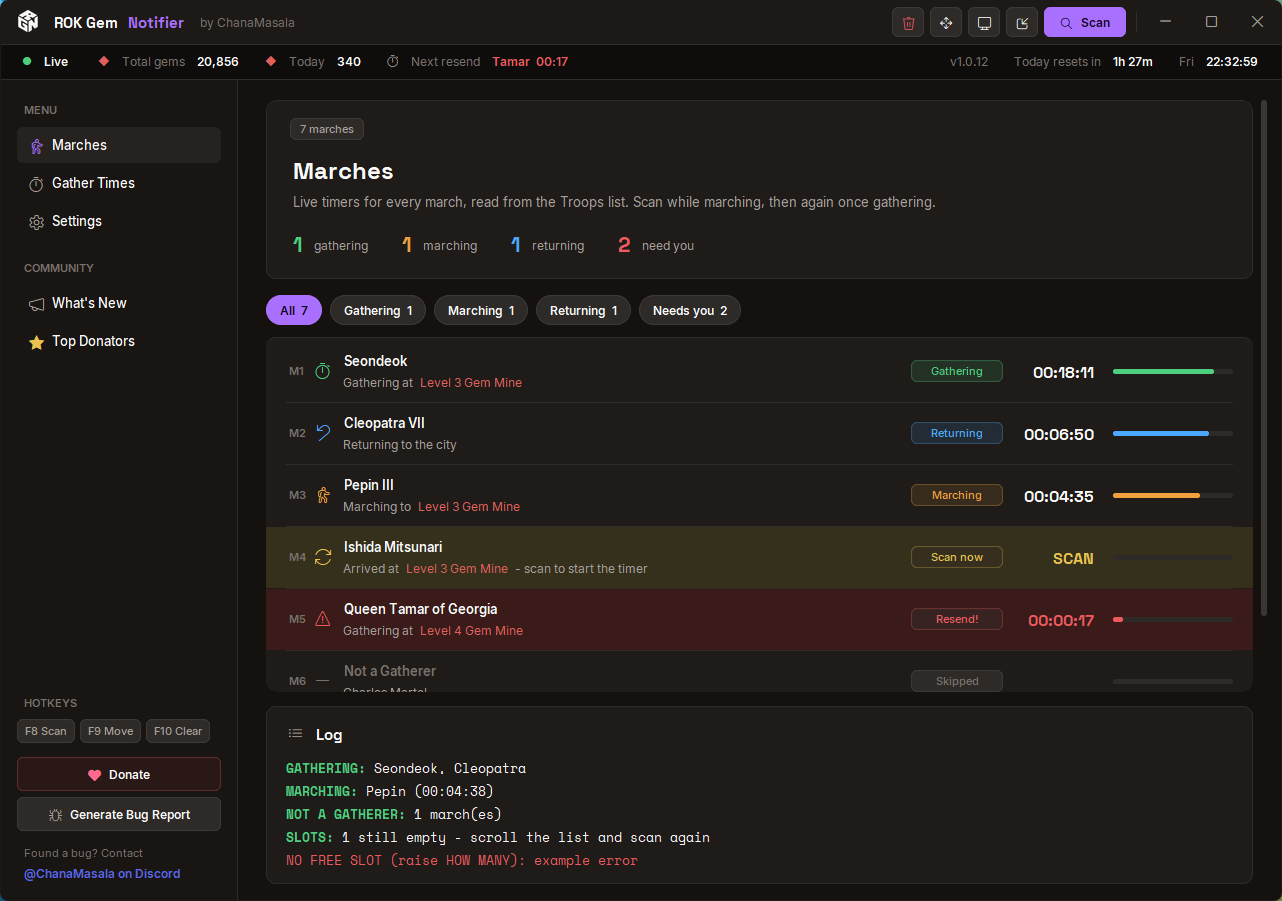
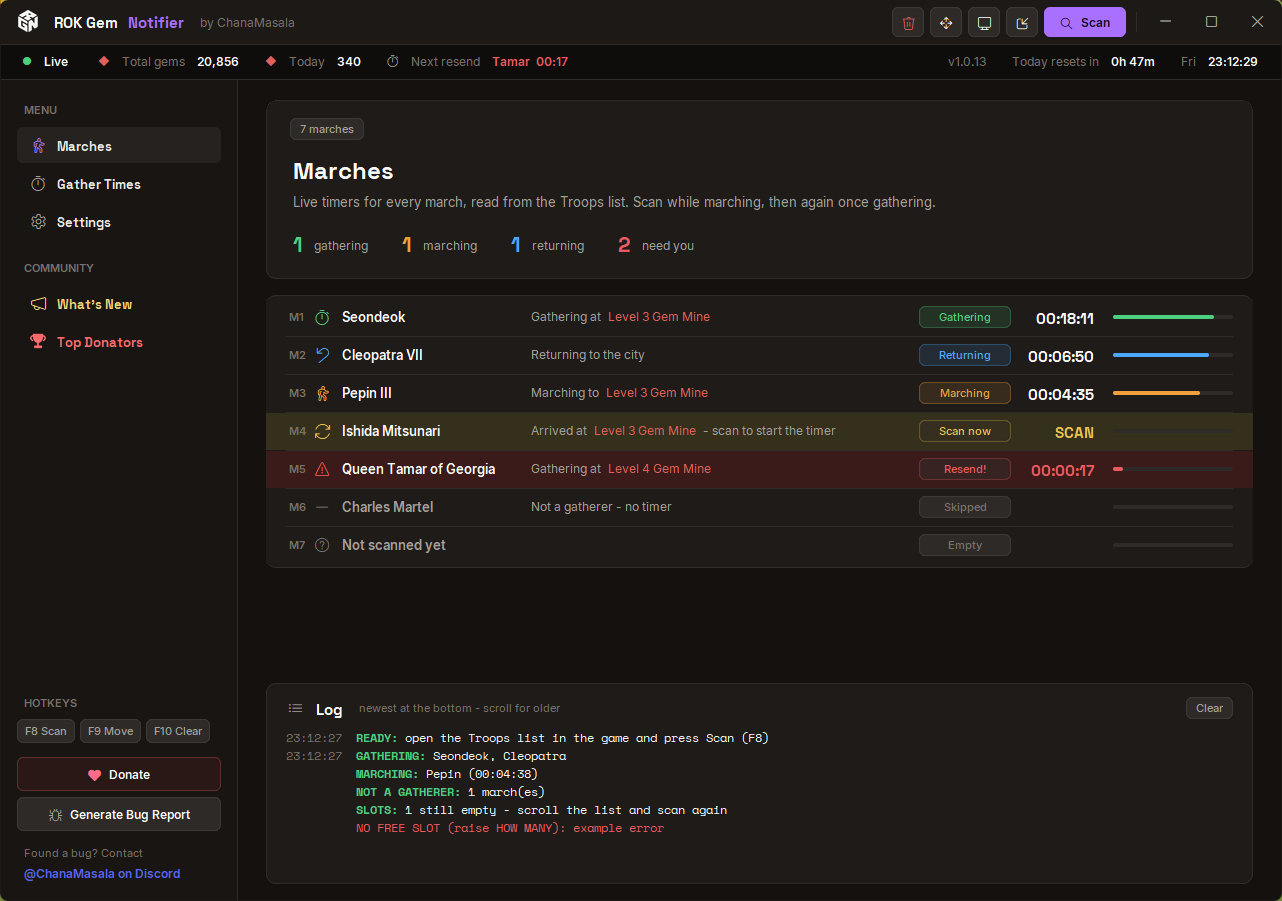
Release v1.0.13
- Log keeps a history with times: scroll back, or Clear it
- Sidebar: bold menu, trophy for Top Donators, icons lined up
- Marches, Gather Times and Top Donators: compact one-line rows
- Every ROK commander is recognised: others show by name as Not a gatherer
- A march led by a fighter is no longer taken for its secondary gatherer
- Gather Times: gems per hour, Best commander and how many gathers each time is from

diff --git a/source/rok_gem_notifier.py b/source/rok_gem_notifier.py
@@ -120,7 +120,7 @@ import cv2
 import numpy as np
 import pytesseract
 
-APP_VERSION = "1.0.12"
+APP_VERSION = "1.0.13"
 UPDATE_REPO = "Tim1501/rok-gem-notifier"     # GitHub repository new versions are published in
 UPDATE_ASSET = "ROK-Gem-Notifier.exe"     # release file name (+ ".sha256" checksum file)
 HOTKEY_ACTIONS = (("scan", "Scan"), ("move", "Move"), ("clear", "Clear"))
